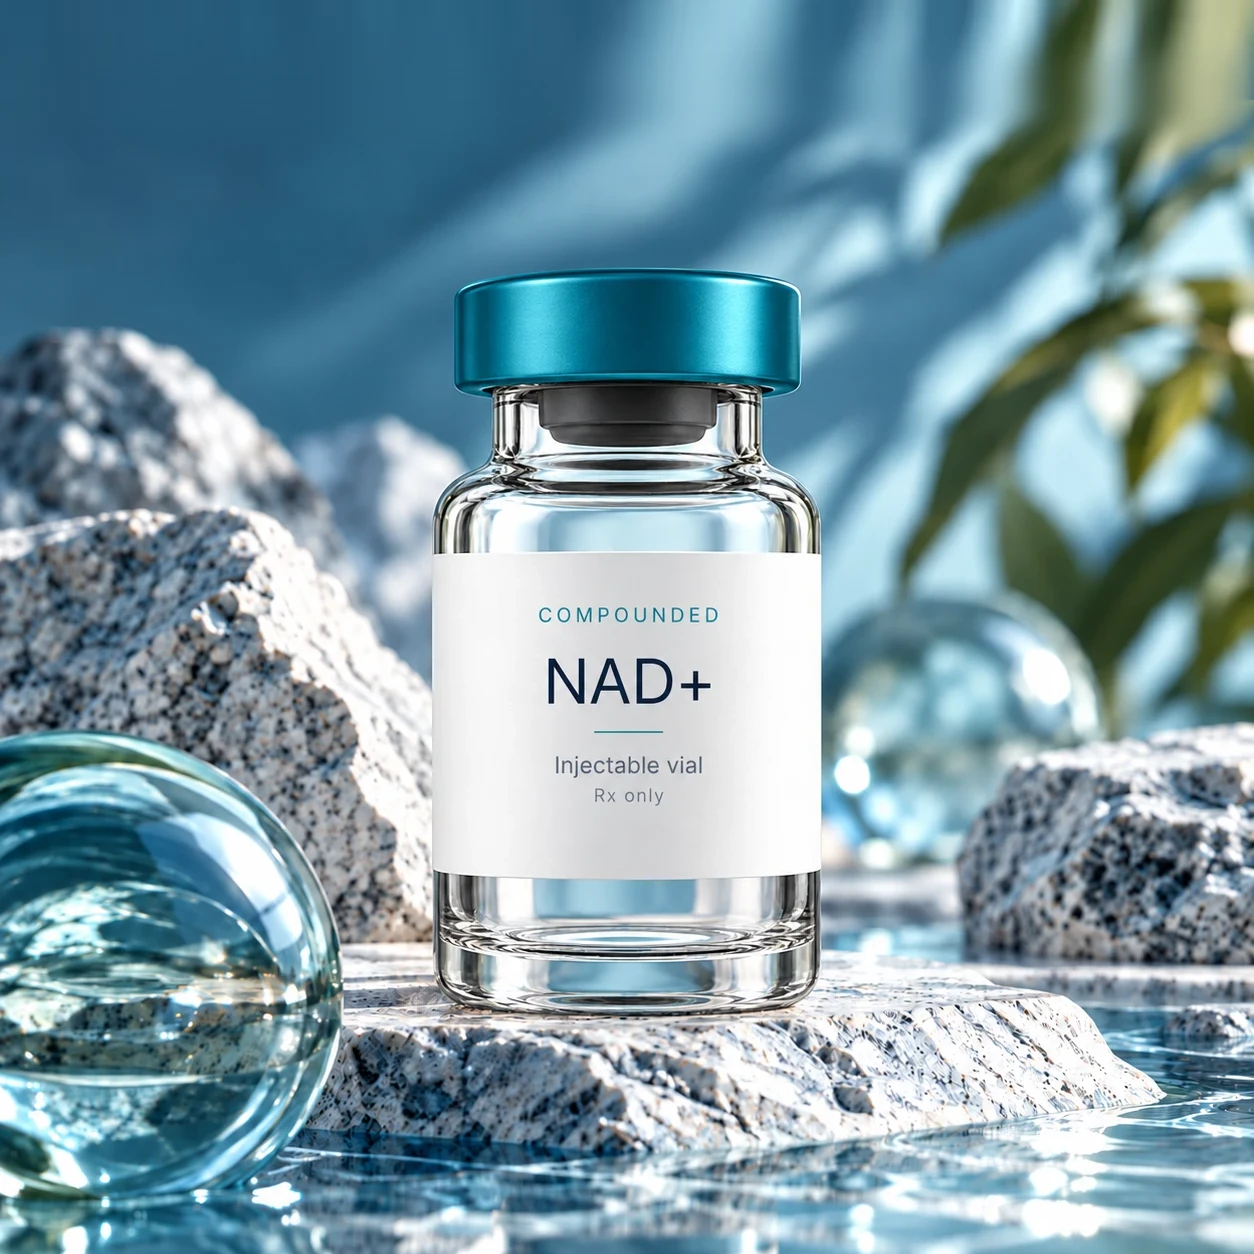
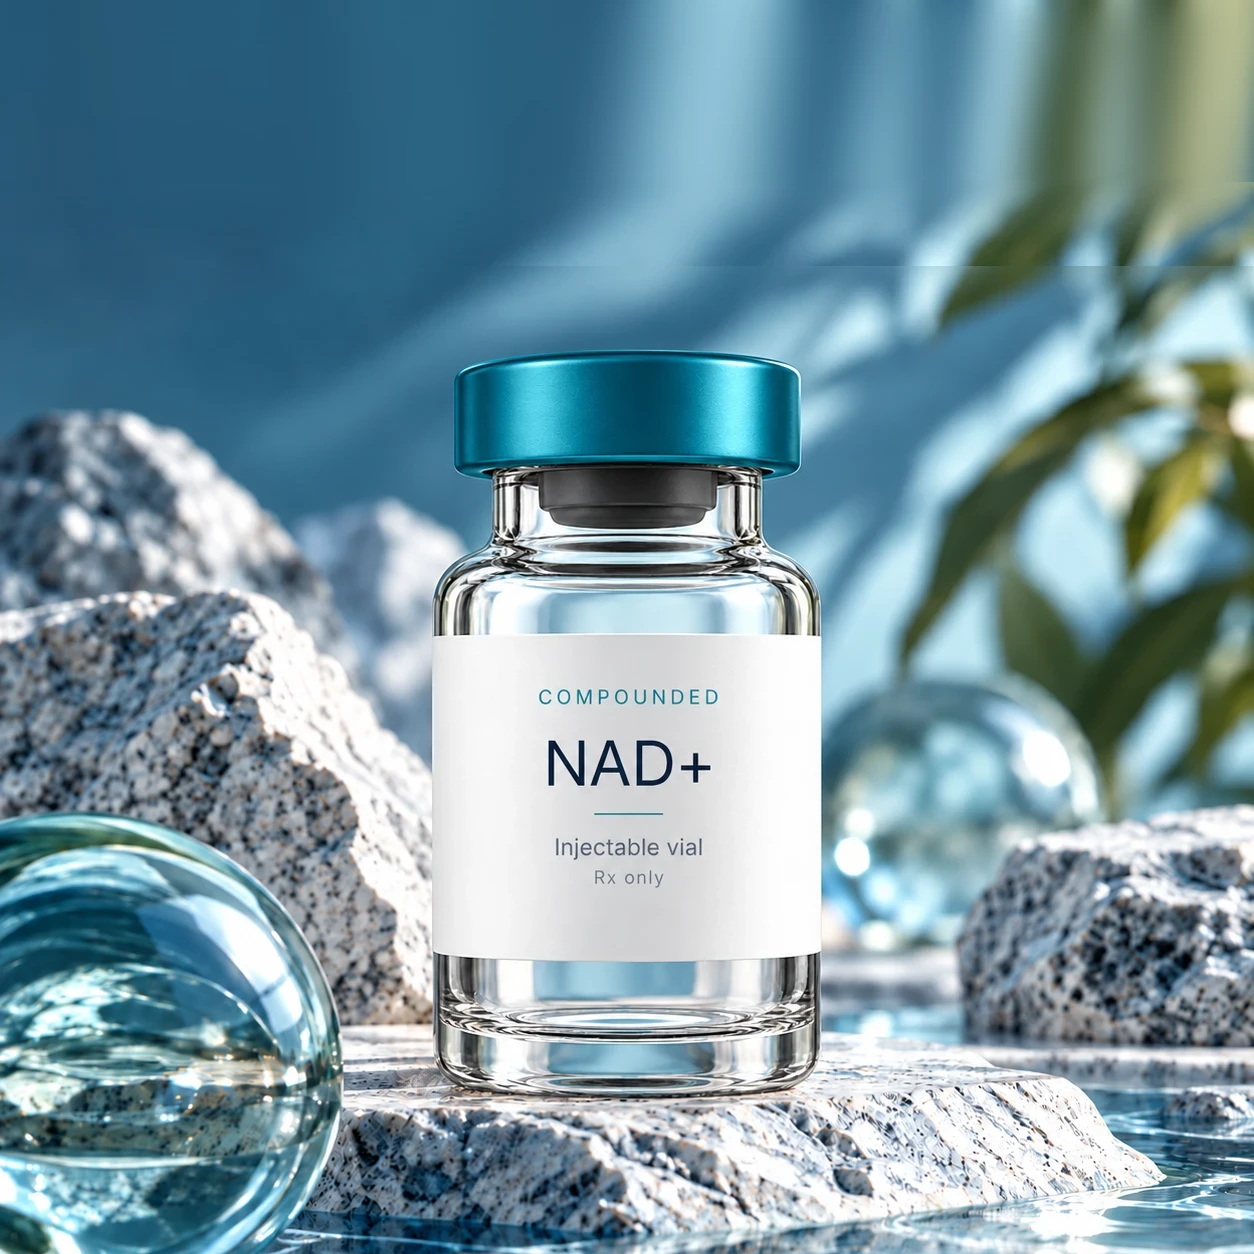
Hero cards: lower the vials without heavy zoom
Bake a soft top extension into each hero render (tools/lower-hero-renders.cjs,
originals in tools/originals/) so the products sit clear of the card titles,
and drop the CSS zoom back to a gentle 1.12/1.04 (1.07/1.0 on mobile).

diff --git a/src/styles/cerivon.css b/src/styles/cerivon.css
@@ -964,21 +964,16 @@ button.link-arrow { font: inherit; font-size: var(--fs-body-sm); font-weight: 50
 /* mobile: the phone now renders unscaled-crisp at --s .56, so the card needs less room above it */
 @media (max-width: 640px) { .photo-sec .hiw { padding-bottom: 400px; } }
 
-/* Hero cards: the NAD+ render frames its vial ~8% larger than the other two, so the
-   semaglutide and tadalafil renders zoom in more to match. Every render is then nudged
-   right and down (translate stays within the zoom overflow, so no edge ever shows),
-   which gives the title/subtitle breathing room above the vial. The NAD+ render itself was
-   extended 7.5% at the top (original in tools/originals/) so its vial sits as low as the others. */
-.cat { --s: 1.25; --tx: 5.5%; --ty: 8%; }
-.cat.cat--weight-management { --s: 1.29; --ty: 9.5%; }
-.cat.cat--peptides { --s: 1.17; --tx: 5.5%; --ty: 8.5%; }
-.cat.cat--sexual-health { --ty: 11%; }
+/* Hero cards: each render was lowered in the file itself (soft top extension, see
+   tools/lower-hero-renders.cjs) so the product sits clear of the title. The NAD+ render frames
+   its vial ~8% larger, so semaglutide and tadalafil keep a gentle 1.12 zoom to match it, and
+   all three get a small nudge right (kept within the zoom overflow, so no edge ever shows). */
+.cat { --s: 1.12; --tx: 3%; --ty: 0%; }
+.cat.cat--peptides { --s: 1.04; --tx: 1.5%; }
 .cat__media img { transform-origin: 50% 50%; }
 .js .cats[data-stagger].is-in .cat .cat__media img { transform: translate(var(--tx), var(--ty)) scale(var(--s)); }
-.js .cats[data-stagger].is-in .cat:hover .cat__media img { transform: translate(var(--tx), var(--ty)) scale(calc(var(--s) * 1.05)); }
+.js .cats[data-stagger].is-in .cat:hover .cat__media img { transform: translate(var(--tx), var(--ty)) scale(calc(var(--s) * 1.04)); }
 @media (max-width: 640px) {
-  .cat { --s: 1.12; --tx: 3%; --ty: 5.5%; }
-  .cat.cat--weight-management { --s: 1.15; --ty: 7%; }
-  .cat.cat--peptides { --s: 1.05; --tx: 2.5%; --ty: 2.5%; }
-  .cat.cat--sexual-health { --ty: 6%; }
+  .cat { --s: 1.07; --tx: 0%; }
+  .cat.cat--peptides { --s: 1; --tx: 0%; }
 }
